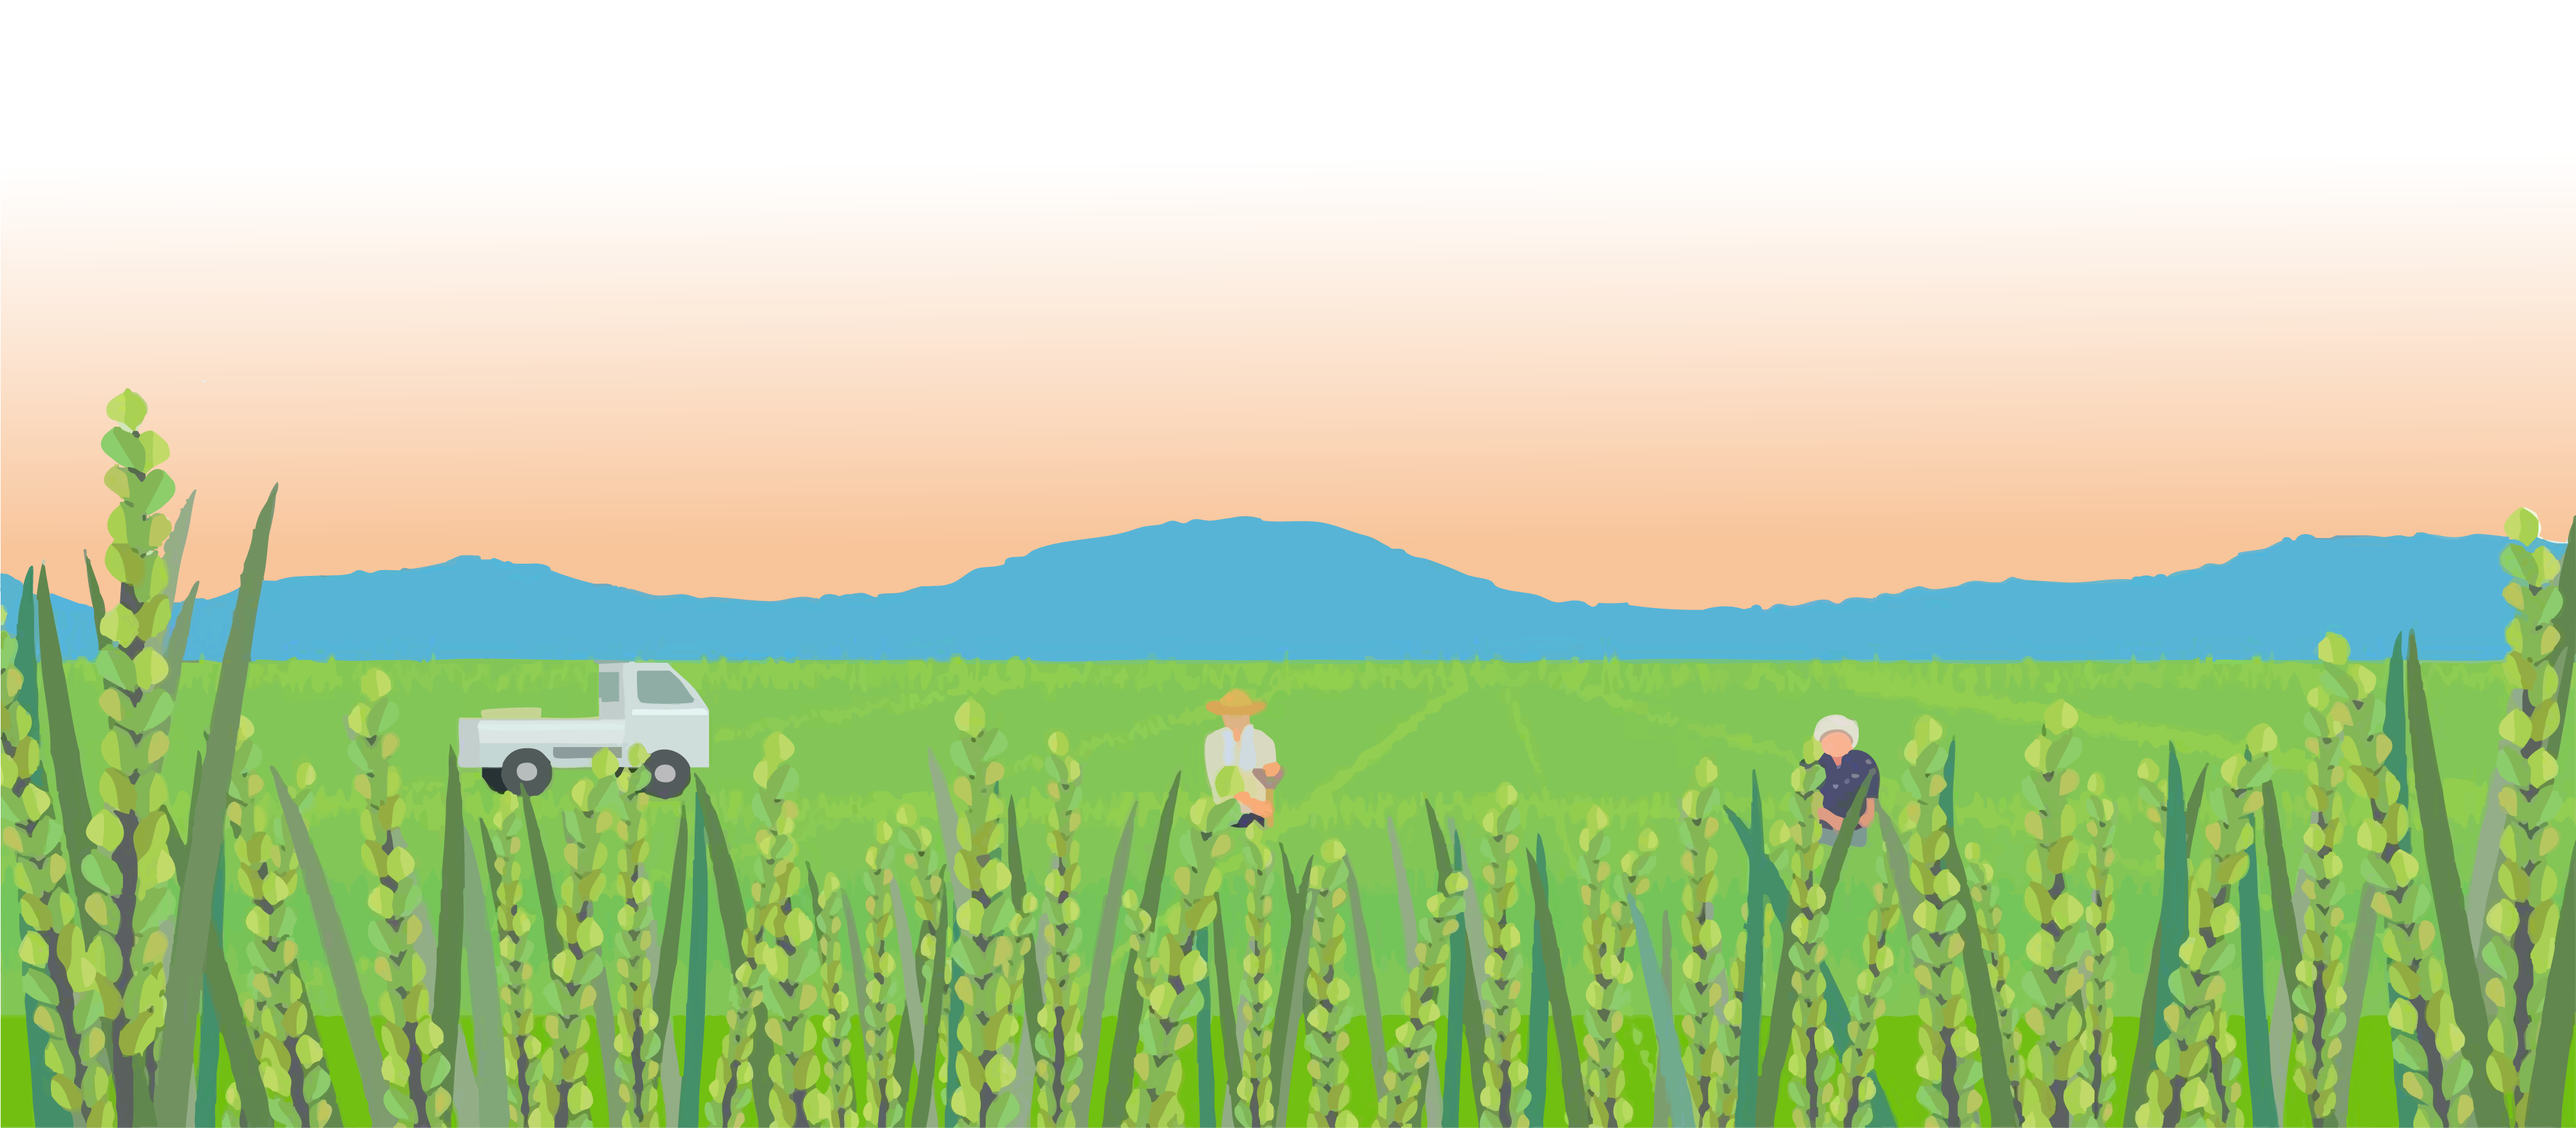
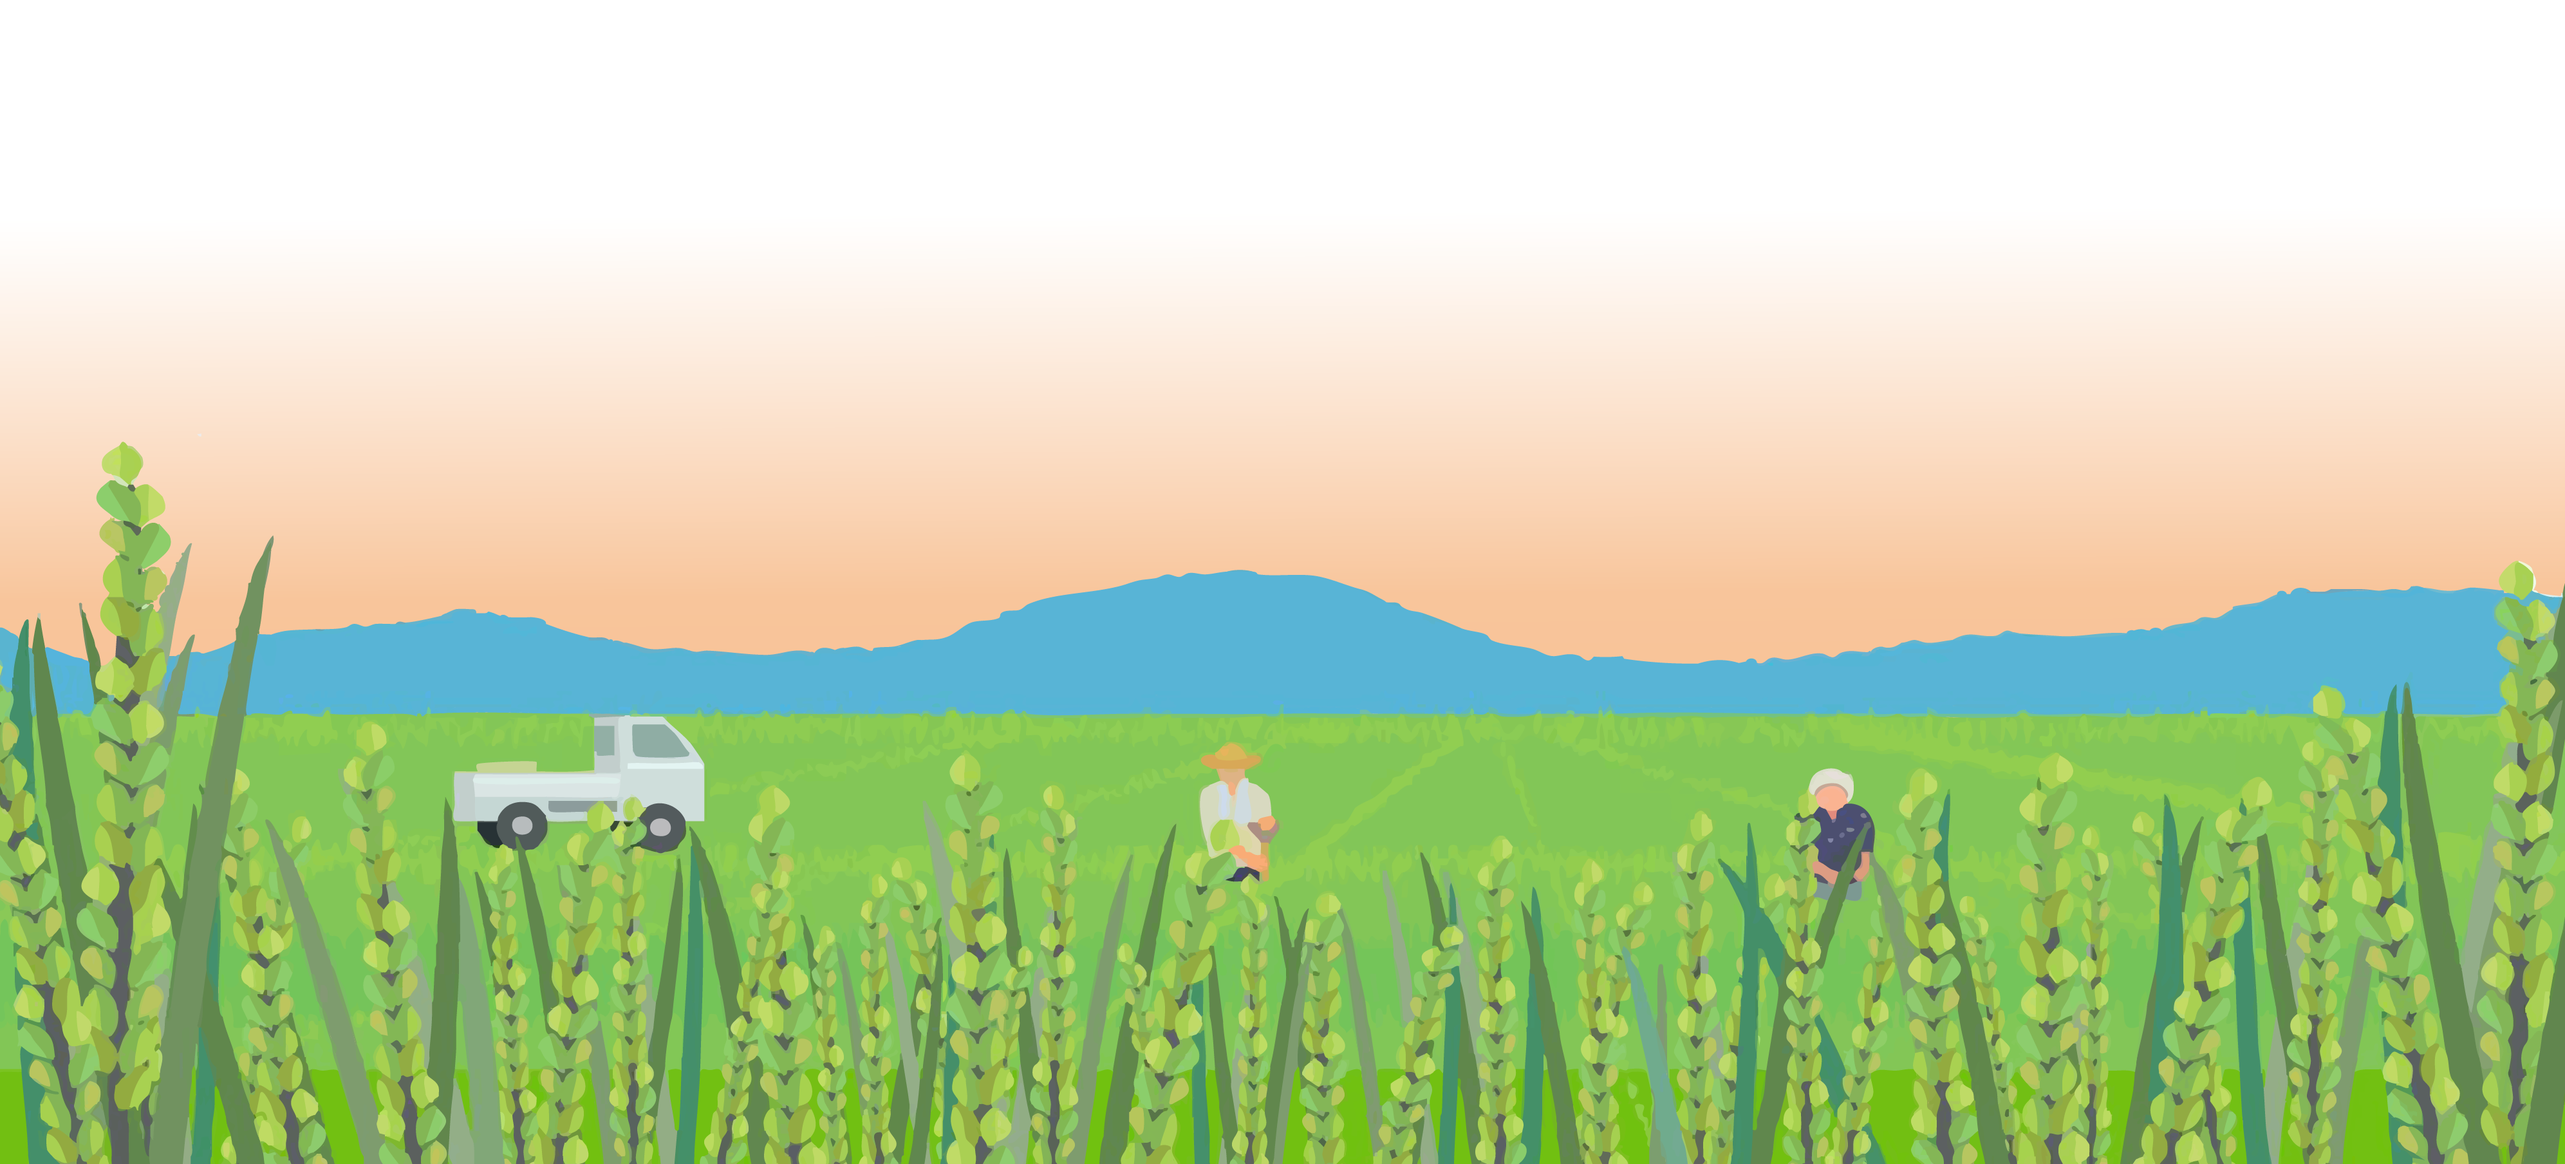
フッターの背景をBodyに移りました
フッターの背景をBodyに移りました
デスクリプションを正式のものに変更しました。

福島

Changed region(s): [[0.0, 0.3388, 1.0, 1.0]]

diff --git a/assets/css/footer.css b/assets/css/footer.css
@@ -3,11 +3,11 @@
 footer {
     width: 100%;
     margin: 0 auto;
-    background-color: #93b4df;
+    /* background-color: #93b4df; */
     /* margin-top: 100px auto; */
     text-align: center;
-    background: url('../images/footer.png') repeat center center;
-    background-size: contain;
+    /* background: url('../images/footer.png') repeat center center; */
+    /* background-size: contain; */
     padding-top: 40px;
 }
 

diff --git a/assets/css/common.css b/assets/css/common.css
@@ -40,10 +40,9 @@
 } */
 
 /* 背景に和紙画像を入れるとしたらの場合の準備 */
-
-/* body {
-    background-image: url(https://beiz.jp/images_S/japanese-paper/japanese-paper_00445.jpg);
-} */
+body {
+    background: url('../images/footer.png') repeat-x center bottom;
+}
 
 /* ==================== */
 /* base */

diff --git a/header.php b/header.php
@@ -15,7 +15,7 @@ $page_tile = '';
 //ページタイトル
 $img_path = get_template_directory_uri('') . '/assets/images/';
 //ページデスクリプション
-$page_description = '徳島を旅するように味わう';
+$page_description = '徳島の名産品を使ったご飯のおともで、徳島の豊かな味わいをあなたの食卓へ。徳島を旅するような味わいをお届けします。';
 
 if (is_post_type_archive('product') || is_tax('product_type')) {
     $page_tile = '商品一覧';
